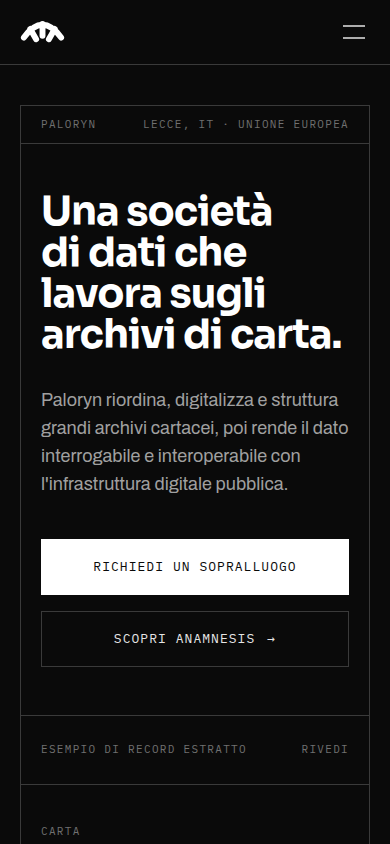
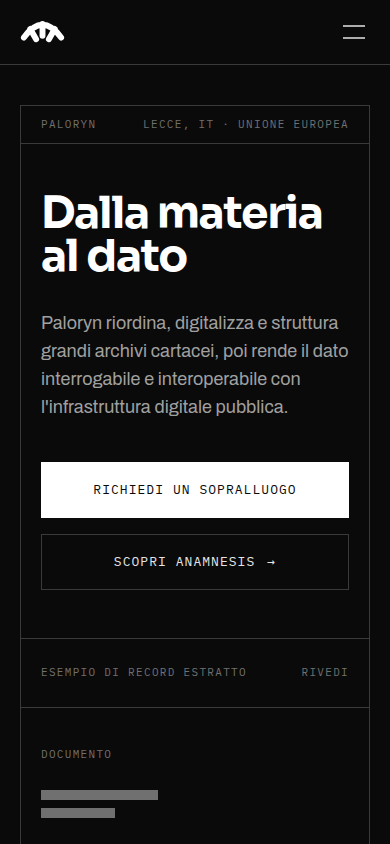
«Dalla materia al dato», e la terminologia corretta
TITOLO. «Una societa' di dati che lavora sugli archivi di carta» era una
didascalia, non un titolo: descriveva invece di dire. «Dalla materia al
dato» dice la trasformazione, che e' il mestiere. Torna al corpo display
pieno: un concetto va grande, una didascalia no.

Senza punto finale, a differenza di tutti gli altri titoli del sito: e'
un sintagma, non una frase, e il punto dopo un frammento e' la stessa
maniera da copywriter tolta due giri fa.

Conseguenza da sapere, e gestita: il titolo non contiene nessuna parola
per cui qualcuno cerchi. Il peso descrittivo lo portano adesso il titolo
del documento - «societa' di dati per gli archivi cartacei» - e la riga
subito sotto il titolo. Sono scritti nel commento del componente perche'
chi tocchera' quel titolo sappia che cosa regge.

TERMINOLOGIA. «Carta» accanto all'analisi di un documento era sbagliato
e informale: la materia si chiama carta, l'oggetto che si analizza no.
Adesso e' «Documento» → «Record strutturato». Corretto anche «archivi di
carta» in «archivi cartacei» dove ancora compariva, e «estratti dalla
carta» in «estratti dai documenti» sulla pagina Anamnesis.

IL DISEGNO DEL DOCUMENTO. Erano tredici trattini identici: un rettangolo
tratteggiato, non un documento. Un atto amministrativo ha
un'intestazione corta e marcata, poi un corpo con stacchi di paragrafo.
Adesso ha quella struttura, e si legge come un documento anche senza
saper dire perche'.

Verificato: stato di riposo integro senza JavaScript e con
[…]

diff --git a/src/views/Home.tsx b/src/views/Home.tsx
@@ -27,7 +27,7 @@ import { alternates, type Locale } from "@/lib/routes";
 
 const TITLE = {
   en: "Paloryn — a data company for paper archives",
-  it: "Paloryn — società di dati per gli archivi di carta",
+  it: "Paloryn — società di dati per gli archivi cartacei",
 };
 
 export function homeMetadata(locale: Locale): Metadata {
@@ -55,12 +55,22 @@ export function HomeView({ locale }: { locale: Locale }) {
       <main id="main">
         {/* LA TESTATA E' UNA SCHEDA, non un annuncio.
 
-            Intestazione in alto come su una scheda di catalogo, poi una
-            frase che dice che cosa e' l'azienda, poi - dentro la stessa
-            cornice - la cosa che l'azienda fa, che avviene sotto gli occhi
-            di chi legge. Testo e grafica non sono due blocchi affiancati:
-            sono lo stesso oggetto, e per questo la pagina non somiglia a
-            una qualunque pagina di lancio. */}
+            Intestazione in alto come su una scheda di catalogo, poi il
+            concetto - dalla materia al dato - poi la riga che dice chi
+            siamo e che cosa facciamo, poi, dentro la stessa cornice, la
+            cosa stessa: un documento che diventa un record, sotto gli
+            occhi di chi legge.
+
+            Testo e grafica non sono due blocchi affiancati, sono lo stesso
+            oggetto: per questo la pagina non somiglia a una qualunque
+            pagina di lancio.
+
+            Nota per chi tocchera' questo titolo: e' volutamente concettuale
+            e non contiene nessuna parola per cui qualcuno cerchi. Il peso
+            descrittivo lo portano il titolo del documento (il <title>, che
+            dice «societa' di dati per gli archivi cartacei») e la riga di
+            testo subito sotto. Se un giorno si toglie una delle due, la
+            pagina smette di dire di che cosa parla. */}
         <section className="shell pt-10 pb-24 md:pt-14 md:pb-32">
           <div className="border border-line">
             <div className="flex items-baseline justify-between gap-6 border-b border-line px-5 py-3 md:px-8">
@@ -69,7 +79,10 @@ export function HomeView({ locale }: { locale: Locale }) {
             </div>
 
             <div className="px-5 py-12 md:px-8 md:py-16">
-              <h1 className="measure-wide text-d2 font-display font-bold text-max">
+              {/* Il titolo e' un concetto, non una descrizione, e i concetti
+                  vanno grandi: torna al corpo display pieno. La descrizione
+                  la fa la riga sotto, che nomina l'azienda e il mestiere. */}
+              <h1 className="measure-wide text-d1 font-display font-bold text-max">
                 {t.hero.title}
               </h1>
 

diff --git a/src/components/home/Conversion.tsx b/src/components/home/Conversion.tsx
@@ -31,19 +31,33 @@ import { useEffect, useRef, useState } from "react";
 
 /* Generatore deterministico: nessun Math.random, che darebbe due pagine
    diverse fra server e browser. */
-function lines(seed: number, count: number) {
+function rng(seed: number) {
   let s = seed;
-  const rnd = () => {
+  return () => {
     s = (s * 1103515245 + 12345) % 2147483648;
     return s / 2147483648;
   };
-  return Array.from({ length: count }, (_, i) => ({
-    w: 34 + rnd() * 62, // percentuale di larghezza della riga
-    gap: i === 3 || i === 8, // due stacchi di paragrafo
-  }));
 }
 
-const PAGE = lines(7, 13);
+/* Un documento amministrativo non e' un blocco di righe uguali: ha
+   un'intestazione corta e marcata in alto, un corpo di testo giustificato
+   e degli stacchi di paragrafo. Disegnare tredici trattini identici
+   darebbe un rettangolo tratteggiato, non un documento — e la differenza
+   si vede anche a colpo d'occhio, senza saperla spiegare. */
+const PAGE = (() => {
+  const r = rng(7);
+  return [
+    /* intestazione: due righe corte, tratto piu' spesso e piu' chiaro */
+    { w: 38, head: true, gap: false },
+    { w: 24, head: true, gap: false },
+    /* corpo */
+    ...Array.from({ length: 11 }, (_, i) => ({
+      w: 46 + r() * 50,
+      head: false,
+      gap: i === 3 || i === 7,
+    })),
+  ];
+})();
 
 export function Conversion({
   from,
@@ -119,7 +133,12 @@ export function Conversion({
               {PAGE.map((l, i) => (
                 <span
                   key={i}
-                  className={`rs-dash block h-1.5 bg-line ${l.gap ? "mt-4" : ""}`}
+                  className={
+                    "rs-dash block " +
+                    (l.head ? "h-2.5 bg-mute " : "h-1.5 bg-line ") +
+                    (l.gap ? "mt-4 " : "") +
+                    (i === 1 ? "mb-5 " : "")
+                  }
                   style={{
                     width: `${l.w}%`,
                     animationDelay: `${120 + i * 26}ms`,

diff --git a/src/content/home.ts b/src/content/home.ts
@@ -20,12 +20,12 @@ export const home = {
     hero: {
       mark: "Paloryn",
       place: "Lecce, IT · European Union",
-      title: "A data company working on paper archives.",
+      title: "From matter to data",
       lead: "Paloryn orders, digitizes and structures large paper archives, then makes the data queryable and interoperable with public digital infrastructure.",
       primary: { label: "Request a survey", href: "/en/about#contact" },
       secondary: { label: "See Anamnesis", href: "/en/anamnesis" },
       convert: {
-        from: "Paper",
+        from: "Document",
         to: "Structured record",
         replay: "Replay",
         /* Gli stessi quattro campi della pagina Anamnesis: e' un esempio,
@@ -190,12 +190,12 @@ export const home = {
     hero: {
       mark: "Paloryn",
       place: "Lecce, IT · Unione Europea",
-      title: "Una società di dati che lavora sugli archivi di carta.",
+      title: "Dalla materia al dato",
       lead: "Paloryn riordina, digitalizza e struttura grandi archivi cartacei, poi rende il dato interrogabile e interoperabile con l'infrastruttura digitale pubblica.",
       primary: { label: "Richiedi un sopralluogo", href: "/it/azienda#contatti" },
       secondary: { label: "Scopri Anamnesis", href: "/it/anamnesis" },
       convert: {
-        from: "Carta",
+        from: "Documento",
         to: "Record strutturato",
         replay: "Rivedi",
         note: "Esempio di record estratto",

diff --git a/src/content/anamnesis.ts b/src/content/anamnesis.ts
@@ -87,7 +87,7 @@ export const anamnesis = {
     geo: {
       eyebrow: "Geolocation",
       title: "Parcels on the map.",
-      lead: "Cadastral references extracted from paper are placed on the map. The exploded view separates a sheet into its parcels, so a request can be resolved by pointing at the ground instead of by reading a register.",
+      lead: "Cadastral references extracted from the documents are placed on the map. The exploded view separates a sheet into its parcels, so a request can be resolved by pointing at the ground instead of by reading a register.",
       layers: ["Sheet", "Parcels", "Extracted record"],
       note: "Schematic. Parcel geometry shown is illustrative.",
       modal: {
@@ -220,7 +220,7 @@ export const anamnesis = {
     geo: {
       eyebrow: "Geolocalizzazione",
       title: "Le particelle sulla mappa.",
-      lead: "I riferimenti catastali estratti dalla carta vengono collocati sulla mappa. L'esploso separa il foglio nelle sue particelle, così un'istanza si risolve indicando il terreno invece di leggere un registro.",
+      lead: "I riferimenti catastali estratti dai documenti vengono collocati sulla mappa. L'esploso separa il foglio nelle sue particelle, così un'istanza si risolve indicando il terreno invece di leggere un registro.",
       layers: ["Foglio", "Particelle", "Record estratto"],
       note: "Schema. La geometria delle particelle è illustrativa.",
       modal: {

diff --git a/src/content/about.ts b/src/content/about.ts
@@ -108,7 +108,7 @@ export const about = {
     hero: {
       eyebrow: "Azienda",
       title: "Archivisti, ingegneri, sviluppatori.",
-      lead: "Paloryn lavora sugli archivi di carta e sul dato che ne esce. Di entrambi risponde la stessa impresa: l'ordinamento, la ripresa, la conservazione e la piattaforma che rende il fondo interrogabile.",
+      lead: "Paloryn lavora sugli archivi cartacei e sul dato che ne esce. Di entrambi risponde la stessa impresa: l'ordinamento, la ripresa, la conservazione e la piattaforma che rende il fondo interrogabile.",
     },
 
     credentials: {
